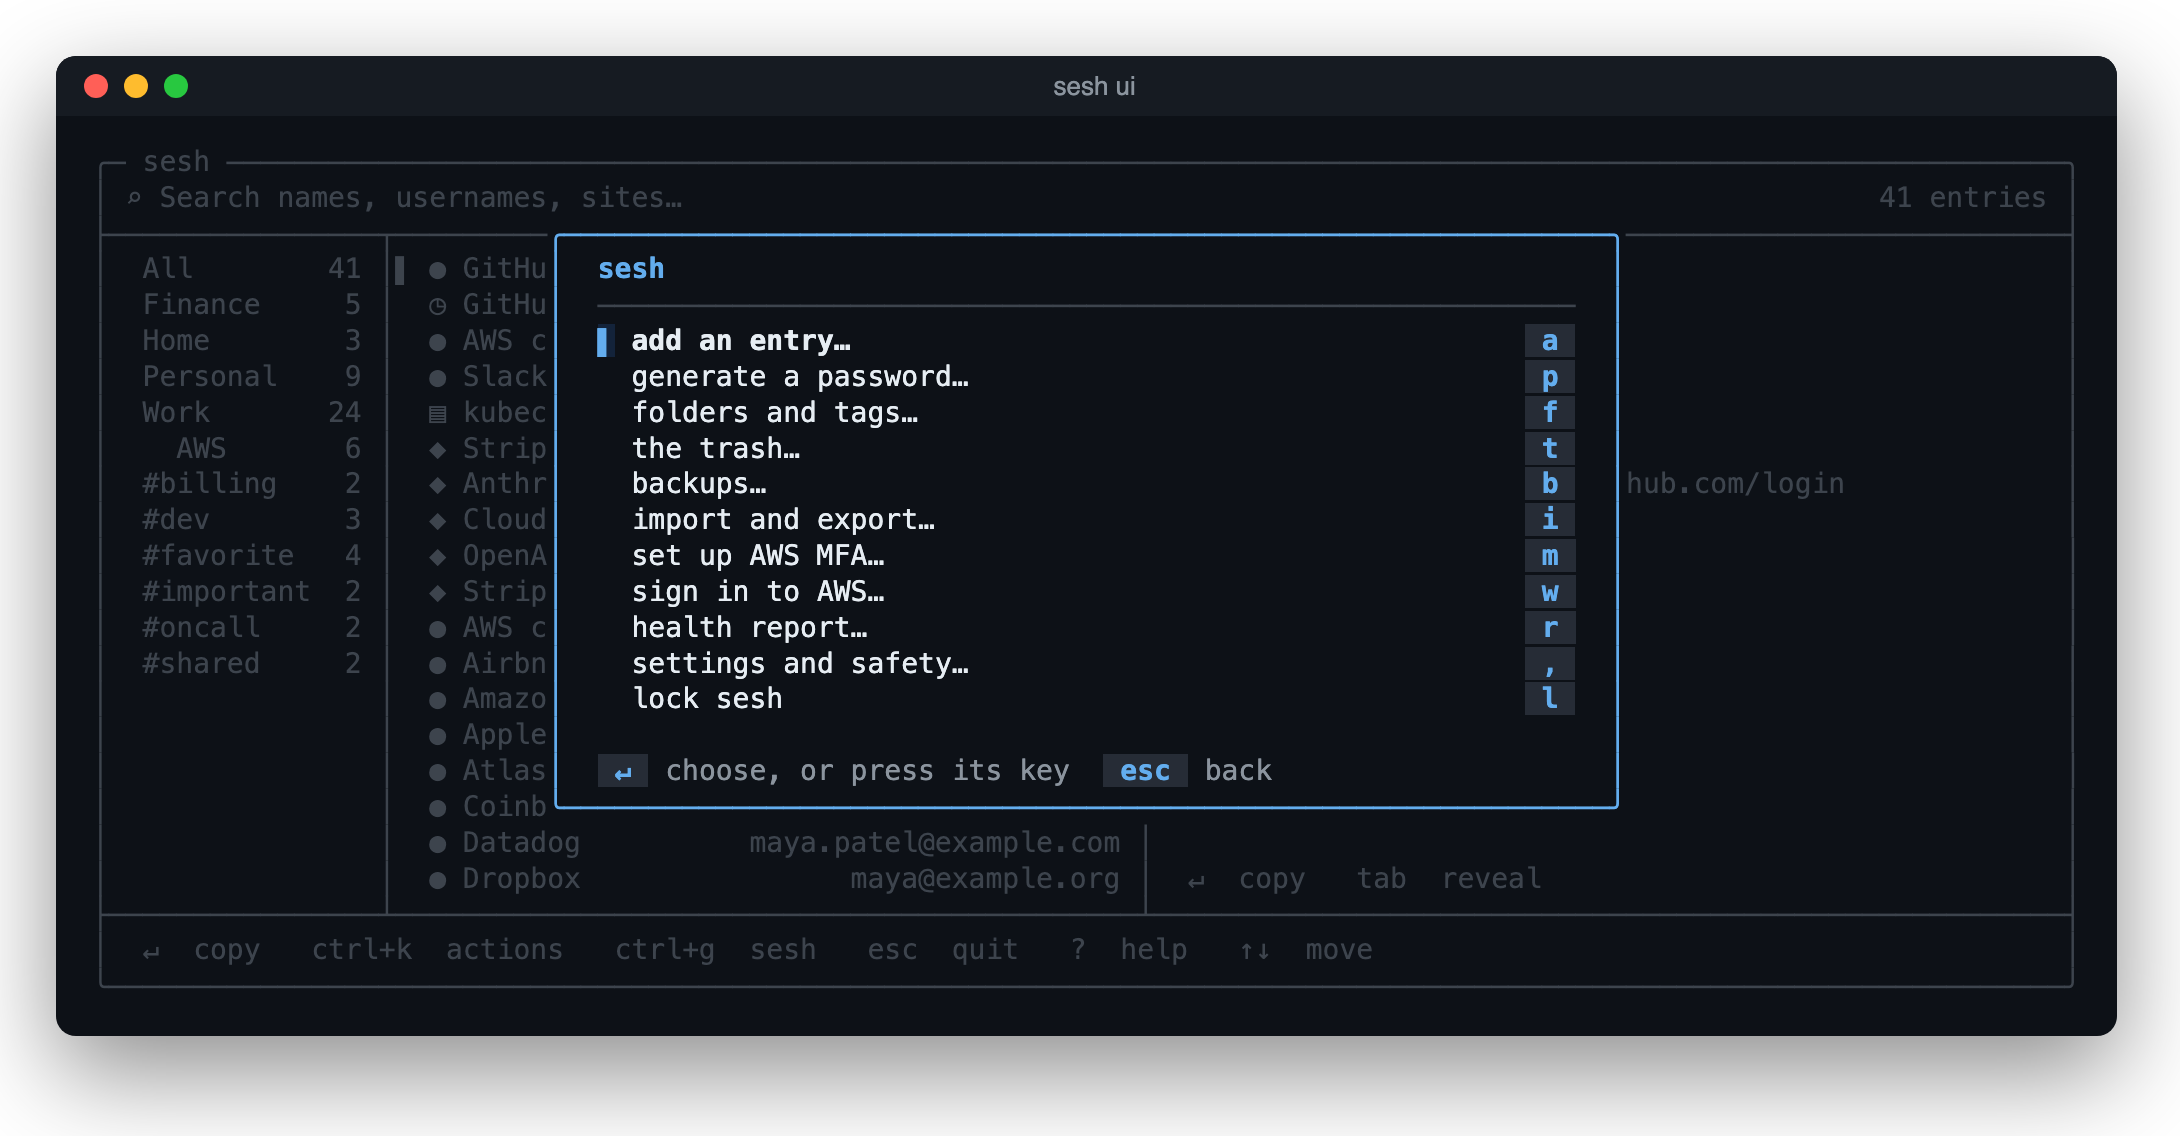
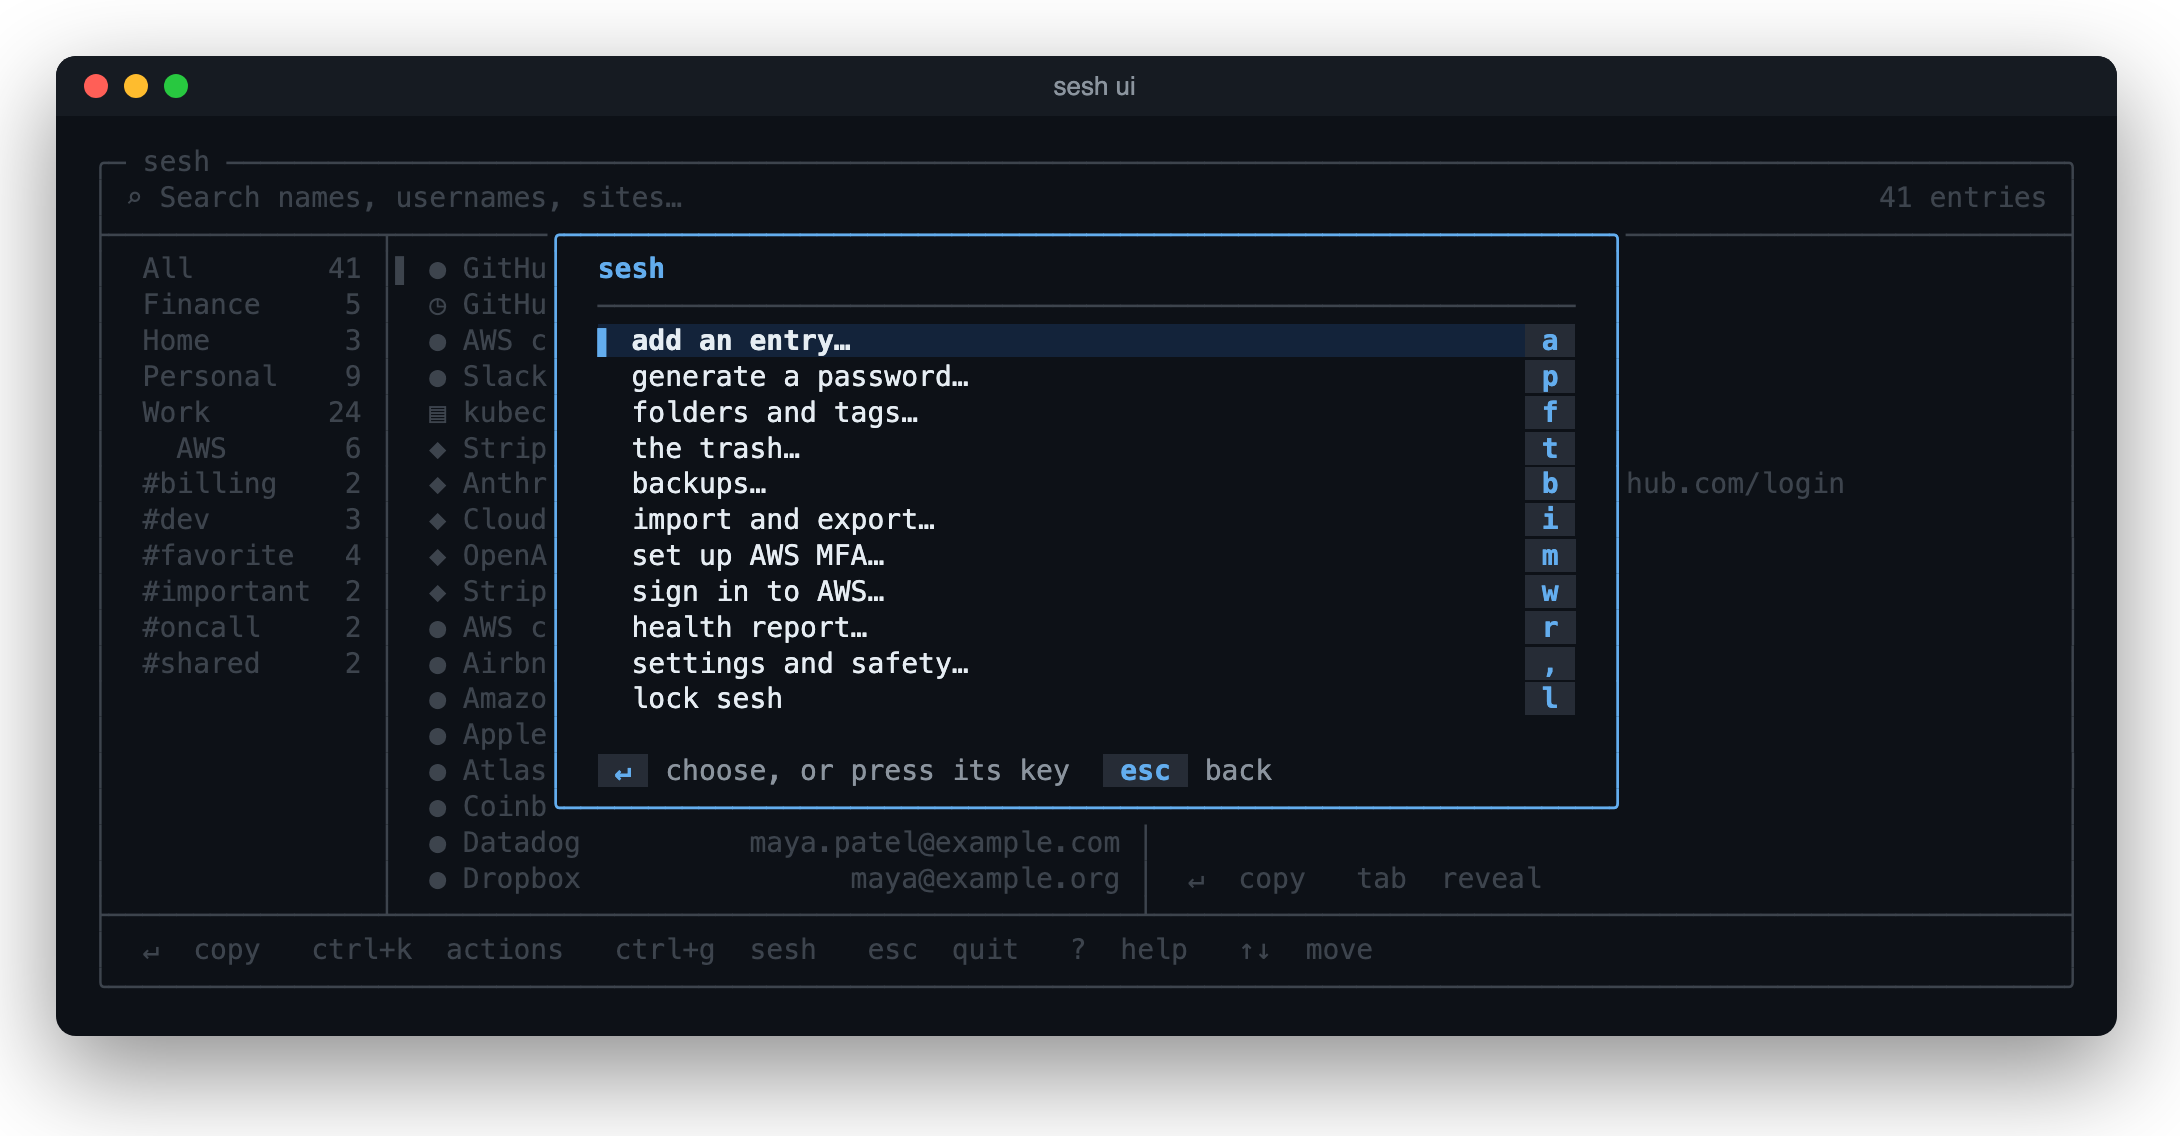
A menu's selected row is one band of colour; the light selection is a shade lighter, for green text on it

Changed region(s): [[0.2807, 0.2773, 0.7174, 0.3389]]

diff --git a/internal/tui/tui_test.go b/internal/tui/tui_test.go
@@ -15,6 +15,7 @@ import (
 	"sync/atomic"
 	"testing"
 	"time"
+	"unicode/utf8"
 
 	tea "charm.land/bubbletea/v2"
 	"charm.land/lipgloss/v2"
@@ -1251,6 +1252,65 @@ func TestActionMenu(t *testing.T) {
 	if len(a.copied) != 3 || a.copied[2] != "alice" {
 		t.Errorf("copied %q", a.copied)
 	}
+}
+
+// A menu's selected row is one band of colour, across the gap between its label and its key.
+func TestMenuSelectedRowBand(t *testing.T) {
+	a := wideApp(t, newFake())
+	a.press("ctrl+g")
+	r, g, b, _ := a.th.selBg.RGBA()
+	want := fmt.Sprintf("48;2;%d;%d;%d", r>>8, g>>8, b>>8)
+	for line := range strings.SplitSeq(a.View().Content, "\n") {
+		if !strings.Contains(ansi.Strip(line), "add an entry…") {
+			continue
+		}
+		// The background each character is drawn on, from the line's colour codes.
+		var text strings.Builder
+		var bgs []string
+		bg := ""
+		for rest := line; rest != ""; {
+			if strings.HasPrefix(rest, "\x1b[") {
+				end := strings.IndexByte(rest, 'm')
+				params := strings.Split(rest[2:end], ";")
+				for k := 0; k < len(params); k++ {
+					switch p := params[k]; {
+					case p == "" || p == "0" || p == "49":
+						bg = ""
+					case p == "48" && k+4 < len(params) && params[k+1] == "2":
+						bg = strings.Join(params[k:k+5], ";")
+						k += 4
+					case (p == "38" || p == "58") && k+1 < len(params) && params[k+1] == "2":
+						k += 4
+					}
+				}
+				rest = rest[end+1:]
+				continue
+			}
+			c, size := utf8.DecodeRuneInString(rest)
+			text.WriteRune(c)
+			bgs = append(bgs, bg)
+			rest = rest[size:]
+		}
+		runes := []rune(text.String())
+		from := strings.Index(text.String(), "add an entry…")
+		from = utf8.RuneCountInString(text.String()[:from]) + utf8.RuneCountInString("add an entry…")
+		// Up to the key's label, which starts with its own padding space.
+		end := from
+		for end < len(runes) && runes[end] == ' ' {
+			end++
+		}
+		gap := end - 1 - from
+		for k := from; k < end-1; k++ {
+			if bgs[k] != want {
+				t.Fatalf("the gap after the selected row's label isn't in the band, at %d: %q", k, line)
+			}
+		}
+		if gap < 10 {
+			t.Fatalf("no gap after the label: %q", line)
+		}
+		return
+	}
+	t.Fatalf("no selected row:\n%s", a.screen())
 }
 
 // Ctrl-G opens sesh's own actions from the search, the list or the sidebar; Ctrl-K with no entry to act on does too.

diff --git a/internal/tui/actions.go b/internal/tui/actions.go
@@ -868,7 +868,12 @@ func (m *Model) drawOverlay(base string) string {
 			k = th.key(key)
 		}
 		if i == ov.sel {
-			return lipgloss.NewStyle().Background(th.selBg).Render(th.accented().Render("▌") + " " + fitTo(th.style().Bold(true).Render(text), w-12) + " " + k)
+			// Each piece gets the band's background: a styled piece's reset
+			// would end one put around the whole row.
+			on := lipgloss.NewStyle().Background(th.selBg)
+			label := th.style().Bold(true).Background(th.selBg).Render(ansi.Truncate(text, w-12, "…"))
+			pad := on.Render(strings.Repeat(" ", max(w-12-lipgloss.Width(label), 0)))
+			return th.accented().Background(th.selBg).Render("▌") + on.Render(" ") + label + pad + on.Render(" ") + k
 		}
 		return "  " + fitTo(th.style().Render(text), w-12) + " " + k
 	}

diff --git a/internal/tui/theme.go b/internal/tui/theme.go
@@ -28,7 +28,7 @@ func newTheme(dark bool) theme {
 		ok:        c(lipgloss.Color("#1A7F37"), lipgloss.Color("#3FB950")),
 		warn:      c(lipgloss.Color("#9A6700"), lipgloss.Color("#D29922")),
 		bad:       c(lipgloss.Color("#CF222E"), lipgloss.Color("#F85149")),
-		selBg:     c(lipgloss.Color("#EAF2FB"), lipgloss.Color("#13233A")),
+		selBg:     c(lipgloss.Color("#ECF3FB"), lipgloss.Color("#13233A")),
 		badgeText: c(lipgloss.Color("#FFFFFF"), lipgloss.Color("#0B1A2B")),
 		keyBg:     c(lipgloss.Color("#E6EAEF"), lipgloss.Color("#262C36")),
 	}
